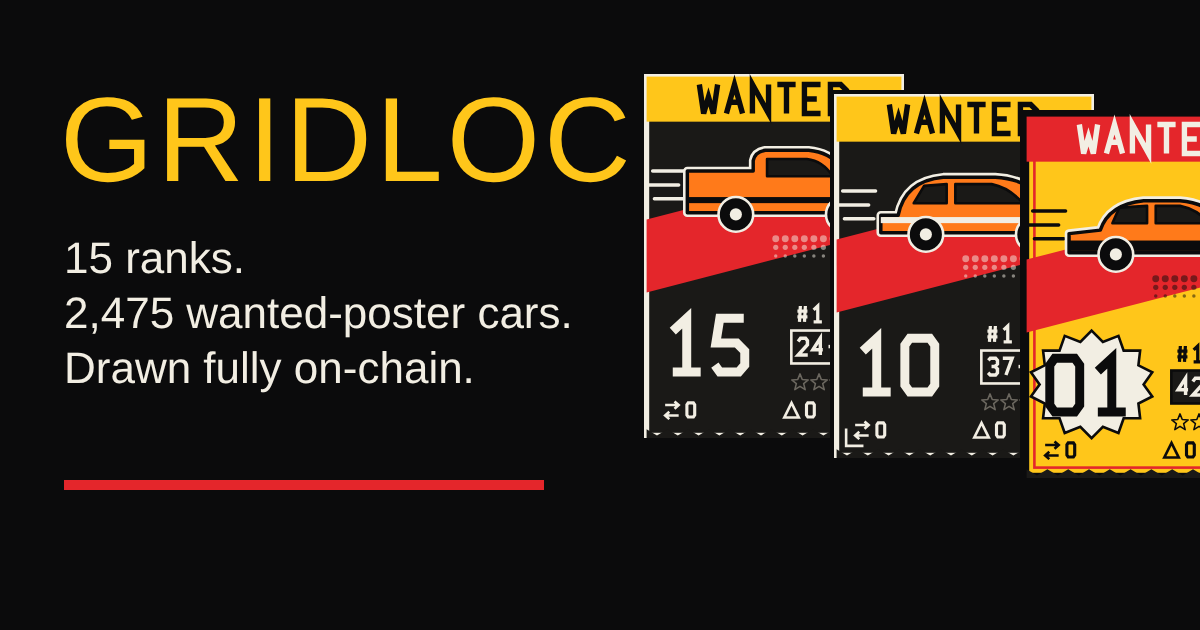
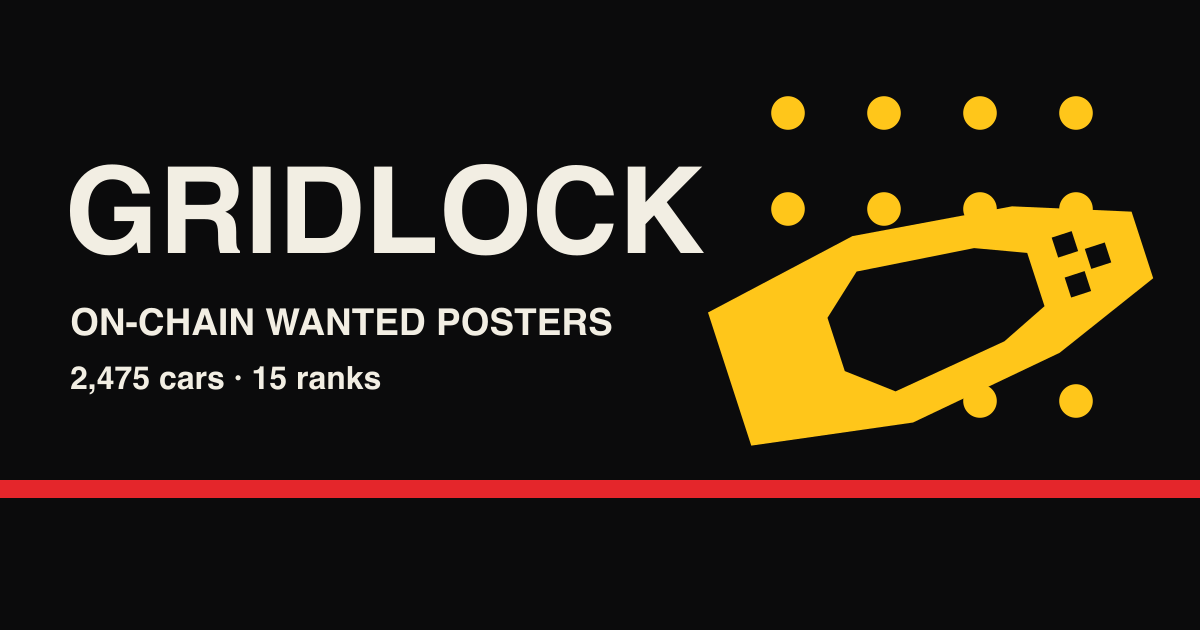
Generate original Gridlock visual assets

Changed region(s): [[0.0, 0.0905, 1.0, 0.8143]]

diff --git a/web/src/art/cars.ts b/web/src/art/cars.ts
@@ -1,0 +1,47 @@
+// Generated by scripts/make-art.mjs.
+export const carBodies = [
+  "M-29 -9 L-17 -13 H12 L30 -8 V8 L12 13 H-17 L-29 9 Z",
+  "M-30 -7 L-17 -11 H10 L30 -6 V6 L10 11 H-17 L-30 7 Z",
+  "M-31 -12 H12 L29 -8 V8 L12 12 H-31 Z",
+  "M-28 -12 H4 L15 -8 H26 L31 -5 V5 L26 8 H15 L4 12 H-28 Z",
+  "M-29 -8 L-22 -12 H16 L29 -10 V10 L16 12 H-22 L-29 8 Z",
+  "M-31 -10 L-8 -14 L15 -11 L31 -5 V5 L15 11 L-8 14 L-31 10 Z"
+] as const;
+export const carWindows = [
+  "M-9 -9 H6 L13 -6 V6 L6 9 H-9 L-14 5 V-5 Z",
+  "M-7 -7 H5 L12 -4 V4 L5 7 H-7 L-15 4 V-4 Z",
+  "M3 -9 H10 L17 -6 V6 L10 9 H3 Z",
+  "M-5 -8 H4 L10 -5 V5 L4 8 H-5 Z M-23 -7 H-13 V7 H-23 Z",
+  "M-5 -8 H9 L14 -6 V6 L9 8 H-5 L-11 5 V-5 Z",
+  "M-9 -9 L8 -7 L15 -4 V4 L8 7 L-9 9 L-15 4 V-4 Z"
+] as const;
+export const liveries = [
+  "M20 -2 H27 V2 H20 Z",
+  "M19 -5 H27 V-3 H19 Z M19 3 H27 V5 H19 Z",
+  "M19 -5 H22 V-2 H19 Z M23 -2 H26 V1 H23 Z M19 1 H22 V4 H19 Z",
+  "M-25 -5 L-19 0 L-25 5 H-21 L-15 0 L-21 -5 Z"
+] as const;
+export const carPaint = [
+  "--action",
+  "--brush",
+  "--text",
+  "--info",
+  "--ok",
+  "--text-dim",
+  "--bad",
+  "--brush-deep"
+] as const;
+export const exampleSales = [
+  [
+    15,
+    400
+  ],
+  [
+    14,
+    360
+  ],
+  [
+    13,
+    212
+  ]
+] as const;

diff --git a/docs/ASSETS.md b/docs/ASSETS.md
@@ -1,0 +1,15 @@
+# Aset Gridlock
+
+`web/scripts/make-art.mjs` membuat semua aset di bawah ini secara deterministik tanpa akses jaringan. Geometri, komposisi dan desain dibuat untuk Gridlock. Hak milik pemilik proyek.
+
+| Aset | Asal dan penggunaan |
+|---|---|
+| `src/art/cars.ts` dan `public/art/cars.svg` | Enam siluet fiktif dalam delapan warna token dan empat livery. Modul dipakai untuk lalu lintas canvas, kartu EXAMPLE, dan fixture penjualan ladder. SVG menampilkan 192 kombinasi. |
+| `public/art/{open,sold-out,caught,claimed,wanted}.svg` | Lima segel flat dengan warna dari token. |
+| `public/art/{cone,signal,light-bar,hazard,halftone}.svg` | Geometri rambu, lampu, garis hazard dan tekstur titik buatan generator. |
+| `public/art/{empty,offline,error}.svg` | Ilustrasi dekoratif untuk garasi kosong, bantuan offline dan jalan buntu. |
+| `public/icon.svg`, `public/apple-touch-icon.png`, `public/og.png` | Siluet dan halftone yang sama. `make-images.mjs` merasterisasi SVG lokal untuk Apple dan OG/Twitter. |
+
+Anton, Barlow dan Space Mono tetap menggunakan file lokal dan lisensi yang sudah disertakan di `web/src/fonts/licenses/`. Kartu asli memakai SVG renderer melalui data chain.
+
+Jalankan `node scripts/make-images.mjs` dari `web/` untuk membuat ulang semua aset, atau `node scripts/make-art.mjs` untuk SVG dan modul TypeScript saja.
